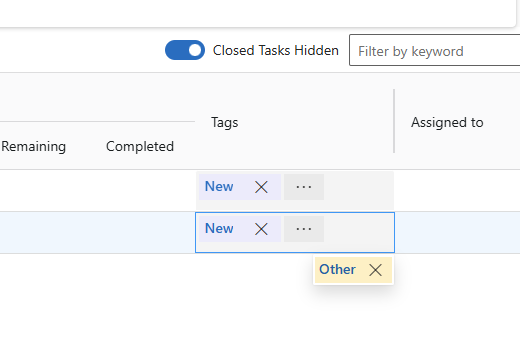
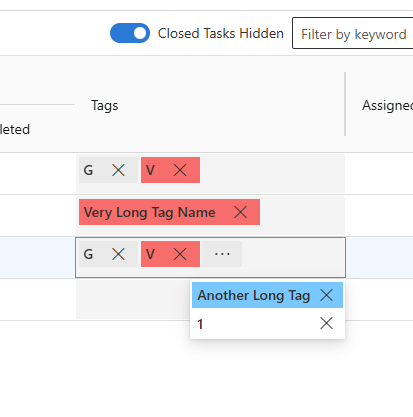
Update TagPicker docs.

diff --git a/src/en/developer-guide/applications/controls/tagpicker.md b/src/en/developer-guide/applications/controls/tagpicker.md
@@ -14,13 +14,13 @@ The Tag Picker component extends the `Lookup` component from the `@talxis/base-c
 | Property Name                 | Type            | Description                                                            |
 |-------------------------------|-----------------|------------------------------------------------------------------------|
 | Binding                       | SingleLine.Text | Binding field. It is used for data exchange when Tag Picker is nested. |
-| Allocated Height              | Whole.None      |                                                                        |
 | Entity Name                   | SingleLine.Text | Target entity name for filtering tag instances.                        |
 | Record Id                     | SingleLine.Text | Target record id for filtering tag instances                           |
 | Scope Entity Name             | SingleLine.Text | Scoping entity name for filtering tags.                                |
 | Scope Record Id               | SingleLine.Text | Scoping record id for filtering tags.                                  |
 | Output Selected Tag Instances | Enum            | Select yes to ouput data to binding field.                             |
 | Compact Mode                  | Enum            | Select yes to display pcf in compact mode.                             |
+| Enable Navigation             | Enum            | Select yes to make tags clickable for editing purposes.                |
 
 ## Lookup Behavior Differences
 
@@ -45,33 +45,12 @@ Selected tag instances can be retrieved in two ways:
   }
   ```
 
-## Nested PCF and Context Updates
-
-When used as a nested PCF, the component exposes an update view method via CustomEvent on intial render. This enables updating the context dynamically. The event is dispatched on the div container pass in the PCF init method and bubbling up for you to catch it in parent PCF. Below is the event definition:
-
-```typescript
-const event = new CustomEvent(
-    'talxis_onPcfUpdateView',
-    {
-        detail: {
-            pcfName: 'talxis_TALXIS.PCF.TagPicker',
-            id: this._targetRecord.recordId,
-            onPcfUpdateView: this._onPcfUpdateView.bind(this),
-            context: this._context,
-            bubbles: true,
-        },
-    }
-);
-```
-
 ## Compact Mode
 
 For grid implementations, compact mode is available. This mode:
 
 - Displays only the selected tags initially.
 - Hides tags when the input gains focus and replaces them with a search bar.
-- Shows a single tag, hiding others under an expand button when multiple tags exist.
+- Displays tags dynamically. Tries to show all tags with their full names. If that is not possible, it displays as many tags as possible using the first letter of tag name, hiding the rest under an expand button.
 
 ![Compact Mode 1](/.attachments/applications/Controls/TagPicker/tagpicker-compactmode-1.png)
-
-![Compact Mode 2](/.attachments/applications/Controls/TagPicker/tagpicker-compactmode-2.png)
